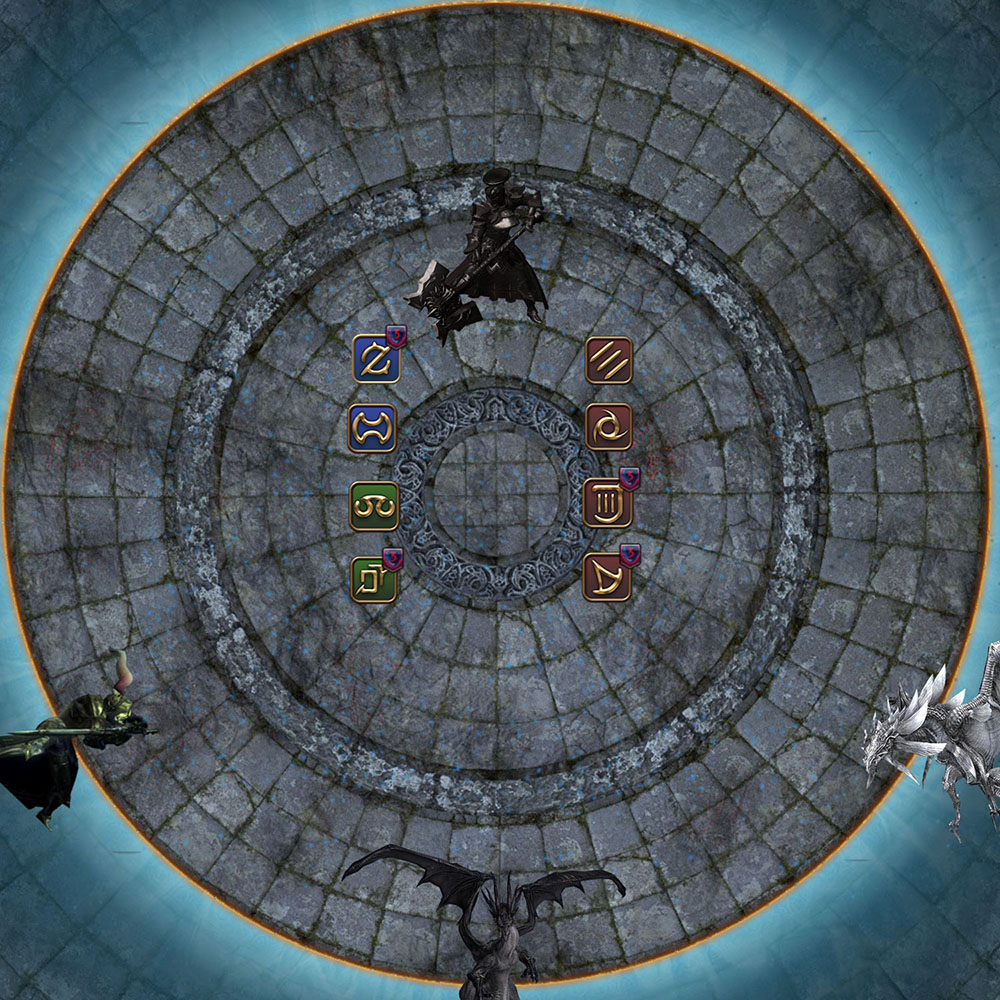
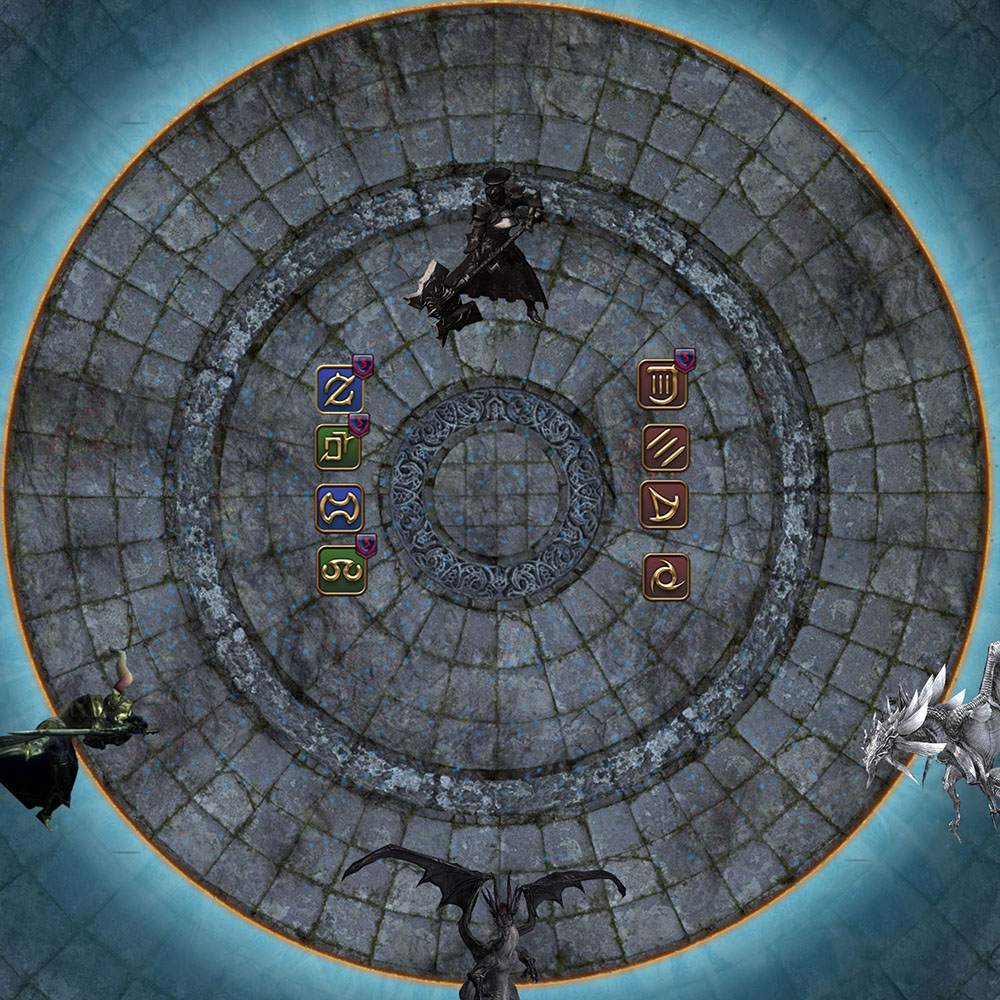
death of the heaven updated

Changed region(s): [[0.558, 0.31, 0.713, 0.62], [0.31, 0.31, 0.403, 0.62]]

diff --git a/guides/ultimates/DSR.md b/guides/ultimates/DSR.md
@@ -713,25 +713,29 @@ In the mean time, the party will move under him since he'll be casting **Empty D
 He will summon his Knights once again and cast **Death of the Heavens**.
 
 <a id='SDeathOfTheHeavens'></a>*Sir Gerrique* will appear at a random cardinal and his position will be considered as North for the rest of the mechanic.  
-Split in two groups of 4, Tanks/Healers to the left and DPS to the right, then 4 random players will get a <span class='speDebuff'>Doom</span> debuff. Based on the number of <span class='speDebuff'>Doom</span> on each side, the groups has to be reform with this rules:
+Split in two groups of 4, Tanks/Healers to the left and DPS to the right and form a North/South line . Then 4 random players will get a <span class='speDebuff'>Doom</span> debuff. Based on the number of <span class='speDebuff'>Doom</span> on each side, take the following positions:
 
 + 2/2 (aka 2 <span class='speDebuff'>Doom</span> on each sides):
-  + A <span class='speDebuff'>Doom</span> DPS swap with a non-doom Tank/Healer to end up with a 3/1 pattern.
+  + The Northmost <span class='speDebuff'>Doom</span> move to the North intercardinal spot while the Southmost <span class='speDebuff'>Doom</span> move to the East/West cardinal on the stone ring.
+  + The Northmost without debuff move to the East/West spot along the edge while the Southmost without debuff move to the South intercardinal spot.
 + 3/1 (aka 3 <span class='speDebuff'>Doom</span> on one side and 1 <span class='speDebuff'>Doom</span> on the other side):
   + Side with 3 <span class='speDebuff'>Doom</span>: The player without the debuff stands at the cardinal along the edge.  
     The 3 players with <span class='speDebuff'>Doom</span> stand at the North and South intercardinal along the edge and the cardinal on the stone ring.
   + Side with 1 <span class='speDebuff'>Doom</span>: The 3 players without the debuff stand at the cardinal and North and South intercardinal along the edge.  
     The player with <span class='speDebuff'>Doom</span> stands at the cardinal on the stone ring.
 
+Example of a 2/2 pattern:
+<img class='soloImg' src='{{ page.imagePath | append: 'doom22.jpg'}}'>
 Example of a 3/1 pattern:
-<img class='soloImg' src='{{ page.imagePath | append: 'doom.jpg'}}'>
+<img class='soloImg' src='{{ page.imagePath | append: 'doom31.jpg'}}'>
+
 > Be mindful, the players at intercardinals must stand on the tiles surrounded in red in order to dodge **Spear of the Fury** and **Twisting Dive**.
 
 *Darkscale* will cast **Cauterize**, diving in the North/South axis. *Ser Zephirin* and *Vedrfolnir* will respectively cast **Spear of the Fury** and **Twisting Dive**. Their will attack diagonally, NE->SW and NW->SE, but slightly tilted towards the East and West. (*Check diagram n°4 below to see the positions and line AoEs.*)  
 When all the **Thunderstorm** resolve and **Twisting Dive** animation starts, everyone has to move to bait the **Twisters**. At the same time, *Vidofnir* will place a **Wings of Salvation** puddle under all the non-doom players, on top of their **Twisters**.  
 Dodge the **Heavy Impact** from *Sir Gerrique* while moving towards the centre of the arena:
 {% assign slideCounter = slideCounter | plus: 1 %}
-{% include slideshow.html imgLink="death1.jpg;death2.jpg;death3.jpg;death4.jpg;death5.jpg;death6.jpg" imgDesc="Place <em>Sir Gerrique</em> North and split in two groups;Adjust from a 2/2 to a 3/1 pattern;Move to your positions while <strong>Heavy Impact</strong> starts;THE TING GOES SKRAAA;Immediatly move for <strong>Twisters</strong> while dodging <strong>Heavy Impact</strong> donut;Say hello to <em>Sir Grinnaux</em>" slideNumber=slideCounter %}
+{% include slideshow.html imgLink="death1.jpg;death2.jpg;death3.jpg;death4.jpg;death5.jpg" imgDesc="Place <em>Sir Gerrique</em> North and split in two groups;Move to your positions while <strong>Heavy Impact</strong> starts;THE TING GOES SKRAAA;Immediatly move for <strong>Twisters</strong> while dodging <strong>Heavy Impact</strong> donut;Say hello to <em>Sir Grinnaux</em>" slideNumber=slideCounter %}
 
 Everyone will regroup around *Sir Grinnaux* for **Holy Chain**:
 
@@ -741,7 +745,7 @@ Everyone will regroup around *Sir Grinnaux* for **Holy Chain**:
 In the meantime, find both *King Thordan* and the *Dragon Eye* locations and look away from both once you're set with your marker.  
 After a few seconds, **Faith Unmoving** will happen along with **The Dragon's Gaze** and **The Dragon's Glory**. Every <span class='speDebuff'>Doom</span> players should be knock back next to a **Wings of Salvation** cleanse puddle to remove their debuff. Stay spread after the knockback until **Heavensflame** AoEs happen:
 {% assign slideCounter = slideCounter | plus: 1 %}
-{% include slideshow.html imgLink="death7.jpg;death8.jpg;death9.jpg;death10.jpg;death11.jpg" imgDesc="Intercardinals <strong>Doom</strong> players cross through <em>Sir Grinnaux</em> and East/West <strong>Doom</strong> players stay a bit away to bait the Circle markers;Markers appear, <strong>Doom</strong> players are anchored;<strong>Non-Doom</strong> players adjust with the Cross North and South;Move close to <em>Sir Grinnaux</em> and look away from <em>King Thordan</em> and the <em>Dragon Eye</em>;Get knocked away and grab the cleanse puddles" slideNumber=slideCounter %}
+{% include slideshow.html imgLink="death6.jpg;death7.jpg;death8.jpg;death9.jpg;death10.jpg" imgDesc="Intercardinals <strong>Doom</strong> players cross through <em>Sir Grinnaux</em> and East/West <strong>Doom</strong> players stay a bit away to bait the Circle markers;Markers appear, <strong>Doom</strong> players are anchored;<strong>Non-Doom</strong> players adjust and both Crosses are North and South;Move close to <em>Sir Grinnaux</em> and look away from <em>King Thordan</em> and the <em>Dragon Eye</em>;Get knocked away and grab the cleanse puddles" slideNumber=slideCounter %}
 
 After the explosion, 8 *Meteor Circles* will spawn, quickly get rid of them to avoid a wipe. It can be useful to keep multi-hit albilities for this part.
 
